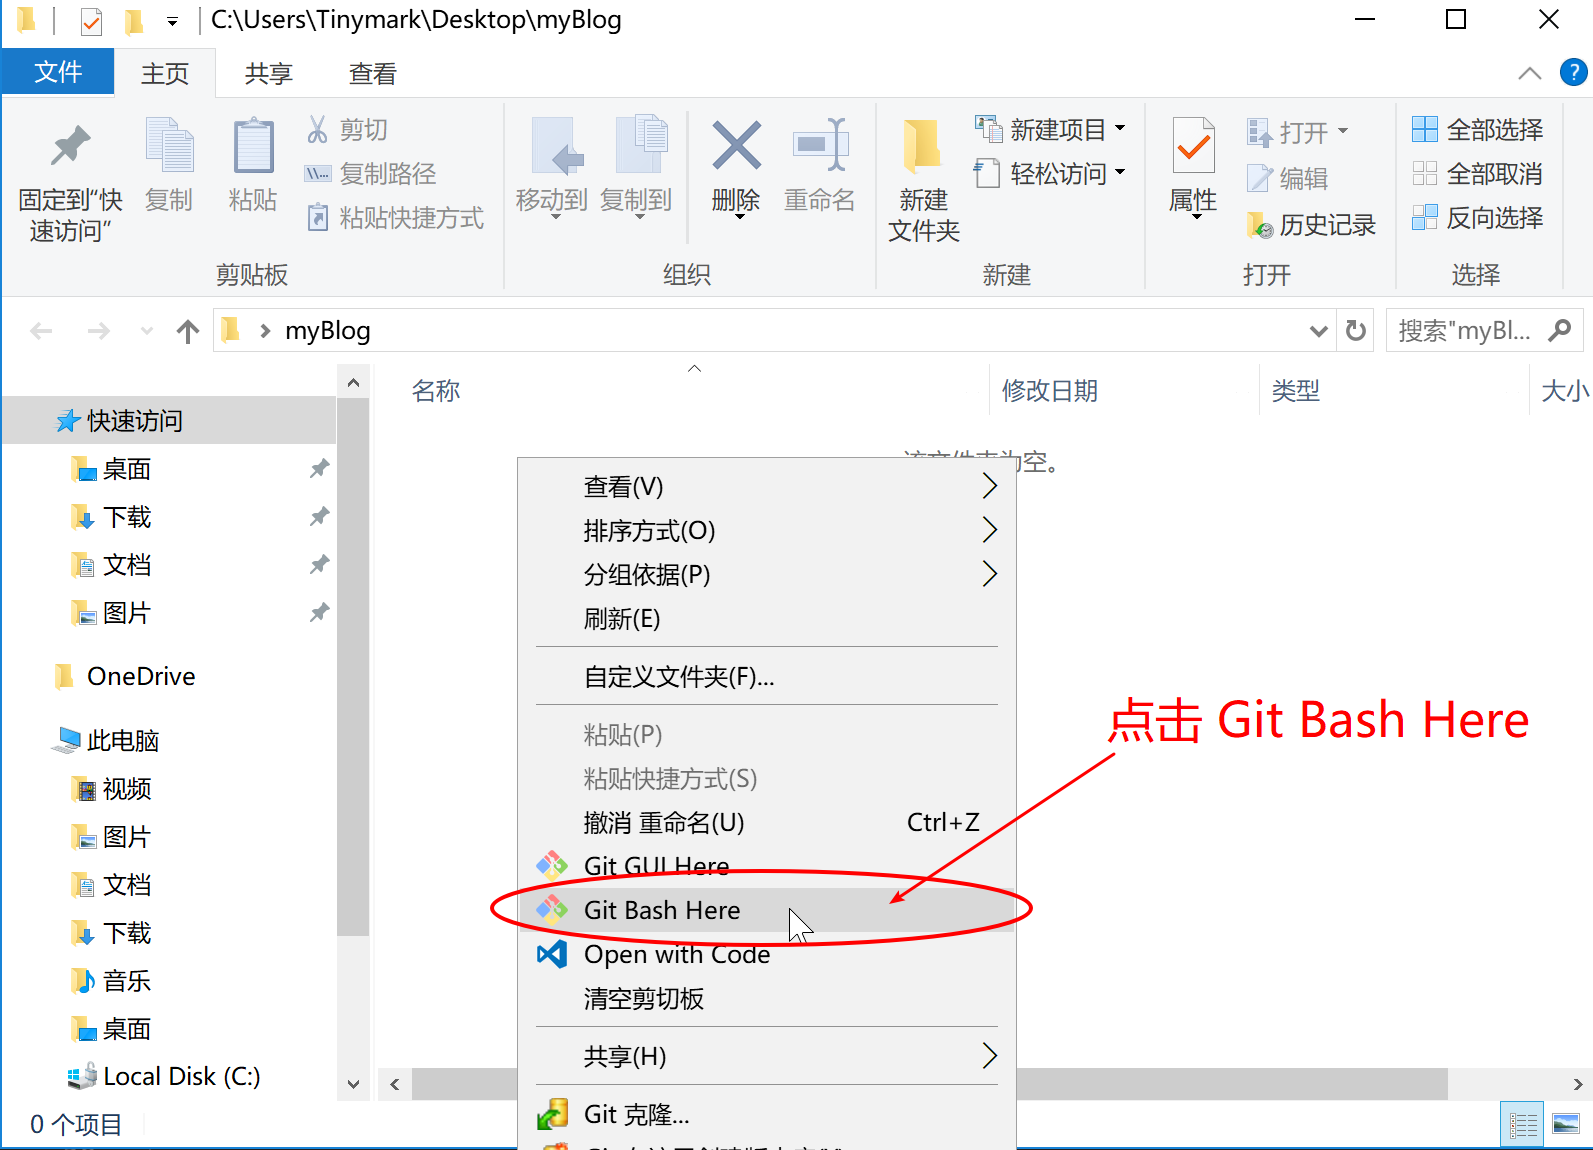
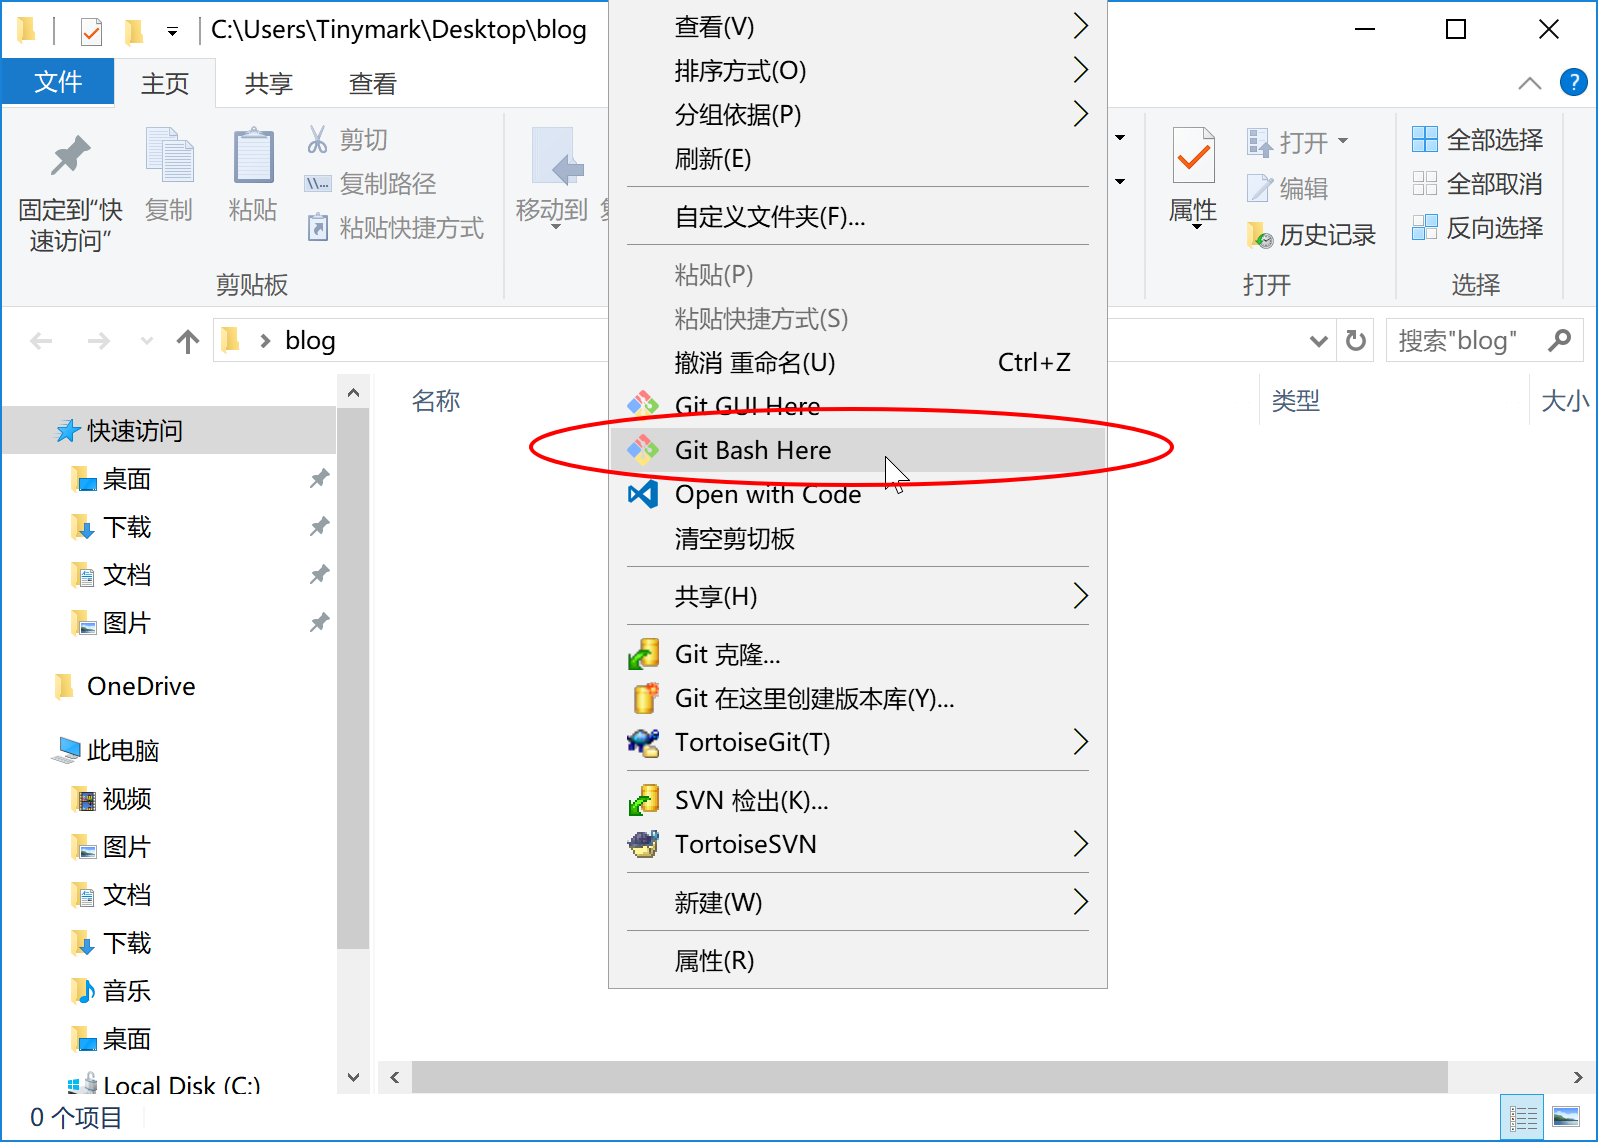
'add'

diff --git a/source/_posts/奇技淫巧/使用Hexo+GitHub搭建博客.md b/source/_posts/奇技淫巧/使用Hexo+GitHub搭建博客.md
@@ -21,63 +21,151 @@ categories: 奇技淫巧
 <!-- more --> 
 
 # 安装Hexo
-1. 新建文件夹'myBlog' 并进入
+1. 新建文件夹'blog' 并进入
+
 2. 在空文件夹内单击 ‘鼠标右键’，选择 'Git Bash Here'
 ![image](/image/hexo_3-2.png)
-3.弹出小黑窗 
+
+3. 弹出 bash 小黑窗 
 ![image](/image/hexo_3-3.png)
-> 在黑窗中，按顺序输入下面代码
-    ~~~ 
-    $ npm i hexo-cli -g
-    $ hexo init blog    // 根据个人网速情况，可能要等很久
-    $ cd blog
-    $ npm i     // 根据个人网速情况，可能要等很久
-    $ hexo g
-    $ hexo s
-    ~~~
+    * 在黑窗中，按顺序输入下面代码
+    1. 输入 npm i -g hexo-cli ，使用 npm 全局安装 hexo 的命令行工具
+        ~~~ 
+        $ npm i -g hexo-cli     
+        ~~~
+    2. 输入 hexo init  ，利用 hexo 命令初始化一个新的博客
+        ~~~
+        $ hexo init     // 根据个人网速情况，可能要等很久
+        ~~~
+        > 初始化中...
+        ![image](/image/hexo_3-3-0.png)    
 
-4. 在浏览器输入：http://localhost:4000/ 查看
-![image](/image/hexo_3-4.png)
+        > hexo init 初始化完成！
+        ![image](/image/hexo_3-3-1.png)   
+    3. 输入 npm i ，安装包（如果网速差或报错，建议使用 cnpm ）
+        [cnpm 的使用方法]()
+        ~~~
+        $ cnpm i     // 根据个人网速情况，可能要等很久
+        ~~~
+        > 使用 cnpm i 安装包
+        ![image](/image/hexo_3-3-2.png)
+        
+    4. 输入 hexo s ，开启本地服务器
+        ~~~
+        $ hexo s
+        ~~~
+        ![image](/image/hexo_3-4-1.png)
 
-# 配置主题（可选）
-## [NexT主题](http://theme-next.iissnan.com/)
-1. 下载主题：
-    1. 进入你博客目录中，如 'blog' 文件夹中
-    2. 在文件夹内单击 ‘鼠标右键’，选择 ‘Git Bash Here’
-![image](/image/hexo_4-1.png)    
-    3. 在黑窗中，输入下面代码
-    ~~~
-    $ git clone https://github.com/iissnan/hexo-theme-next themes/next 
-    // 根据个人网速情况，可能要等很久
-    ~~~
-    ![image](/image/hexo_4-2.png)        
-2. 启用主题
-    1. 找到 '~/myBlog/blog/_config.yml' 文件
-    2. 第75行改为 
-    ~~~ 
-    theme: next
-    ~~~
-    ![image](/image/hexo_4-3.png)
+    5. 在浏览器输入：http://localhost:4000/  查看我们的博客
+        ![image](/image/hexo_3-4.png)
 
-3. 主题设定
-    > 详见 [NexT/#theme-settings](http://theme-next.iissnan.com/getting-started.html#theme-settings)
+# 写博客
+    1. 
+
+# 配置 NexT 主题（可选）
+## Made by [IIssNan](https://github.com/iissnan) @ GitHub
+
+* NexT 主题官方文档： [http://theme-next.iissnan.com/](http://theme-next.iissnan.com/)
+* 具体配置参考： [NexT主题基本配置]()
 
 # 完成部署GitHub
+> 原理：
+每个 Github 账户都可以创建一个 YourName.github.io 的仓库，
+这个仓库的 master 分支是可以直接使用 YourName.github.io 在网络中访问的，
+我们可以利用 Github 的这个功能来进行静态页面的展示。
 
-1. 继续在黑窗，安装部署工具
+> 有两种部署的方式，一种是手动部署，一种是使用 hexo 命令行部署，推荐使用第二种
+
+## 1. 手动部署
+1. 清空之前生成的博客文件
+    > 进入 bash 小黑窗，输入 hexo clean （如果服务器开启中，可以使用 Ctrl + c 停止）
+    ![image](/image/hexo_2-2.png)    
+
+2. 生成博客文件
+    > 输入 hexo g
+    ~~~
+    $ hexo g
+    ~~~
+    > 生成完成！
+    ![image](/image/hexo_2-3.png)    
+    
+3. 进入 public 文件夹中，开启 bash 黑窗
+    > 进入 public 文件夹
+    ![image](/image/hexo_2-4.png)    
+    > 开启 bash 黑窗
+    ![image](/image/hexo_2-5.png)    
+
+4. 输入git init 初始化仓库，并使用 add 和 commit 提交
+    ~~~
+    $ git init
+    $ git add .
+    $ git commit -m 'blog'
+    ~~~
+    > git init & git add .
+    ![image](/image/hexo_2-7.png)   
+    > git commit
+    ![image](/image/hexo_2-8.png)   
+    > 完成提交！
+    ![image](/image/hexo_2-9.png)                       
+
+5. 使用 git push 命令推送到 Github 仓库
+    > 注意后面需要加上 --force 强制覆盖
+    ~~~
+    $ git push https://github.com/YourName/YourName.github.io.git master --force
+    ~~~
+    > 如果使用 https 地址，需要输入用户名和密码
+    ![image](/image/hexo_2-10.png)                       
+    > 推送完成！
+    ![image](/image/hexo_2-11.png)                       
+
+6. 在浏览器输入 YourName.github.io 来访问你的博客
+    ![image](/image/hexo_2-12.png)                       
+
+## 2. 使用 hexo 命令部署
+* 此方法需要配置 SSH 密钥来免密提交，SSH 的配置方法参考 [SSH配置方法]()
+
+1. 在 blog 文件夹中打开 bash 黑窗，安装部署工具
+    ![image](/image/hexo_5-0.png)  
+    > 输入 npm i hexo-deployer-git --save  来安装 hexo 部署工具
     ~~~
     $ npm i hexo-deployer-git --save
     ~~~
+    > 同样可以使用 cnpm 进行安装（推荐）
     ![image](/image/hexo_5-1.png)
 
-2. 找到 '~/myBlog/blog/_config.yml' 文件，修改最后的代码：
+2. 找到 '~/blog/_config.yml' 文件，修改最后的代码：
+    > 代码如下：
     ~~~
     deploy:
-    type: git
-    repo: git@github.com:yourName/yourName.github.io.git
-    branch: master
+        type: git
+        repo: git@github.com:YourName/YourName.github.io.git
+        branch: master
     ~~~
-    ![image](/image/hexo_5-2.png)
+    > ![image](/image/hexo_5-2.png)
+
+3. 清空之前生成的博客文件
+    > 打开 bash 小黑窗
+    > 输入 hexo clean 
+    > ![image](/image/hexo_5-3.png)
+
+4. 生成博客文件
+    > 输入 hexo g
+    ~~~
+    $ hexo g
+    ~~~
+    > 生成完成！
+    ![image](/image/hexo_2-3.png)  
+
+5. 部署到 Github
+    > 输入 hexo d 
+    ~~~
+    $ hexo d
+    ~~~
+    > 最后显示 INFO  Deploy done: git 代表部署成功
+    > ![image](/image/hexo_5-4.png)
+    
+6. 在浏览器输入 YourName.github.io 来访问你的博客
+    ![image](/image/hexo_2-12.png)  
     
 # 总结常用命令
 ~~~

diff --git a/source/_posts/奇技淫巧/NexT主题基本配置.md b/source/_posts/奇技淫巧/NexT主题基本配置.md
@@ -1,0 +1,28 @@
+---
+title: NexT主题基本配置
+tags: [Hexo,博客]
+date: 2017-03-07
+categories: 奇技淫巧
+---
+
+## [NexT主题](http://theme-next.iissnan.com/)
+### 下载主题：
+1. 进入你博客目录中，如 'blog' 文件夹中
+2. 在文件夹内单击 ‘鼠标右键’，选择 ‘Git Bash Here’
+![image](/image/hexo_4-1.png)    
+    3. 在黑窗中，输入下面代码，克隆主题文件
+    ~~~
+    $ git clone https://github.com/iissnan/hexo-theme-next themes/next 
+    // 根据个人网速情况，可能要等很久
+    ~~~
+    ![image](/image/hexo_4-2.png)        
+### 启用主题
+    1. 找到 '~/myBlog/blog/_config.yml' 文件
+    2. 第75行改为 
+    ~~~ 
+    theme: next
+    ~~~
+    ![image](/image/hexo_4-3.png)
+
+### 主题设定
+    > 详见 [NexT/#theme-settings](http://theme-next.iissnan.com/getting-started.html#theme-settings)

diff --git a/source/categories/index.md b/source/categories/index.md
@@ -1,5 +1,3 @@
 ---
-title: categories
-date: 2017-08-27 16:44:42
 type: "categories"
 ---

diff --git a/source/tags/index.md b/source/tags/index.md
@@ -1,5 +1,3 @@
 ---
-title: tags
-date: 2017-08-27 16:43:47
 type: "tags"
 ---
